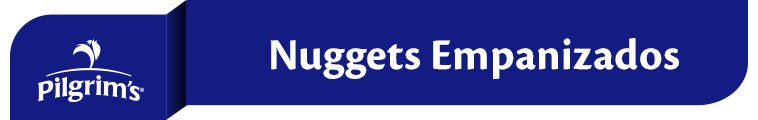
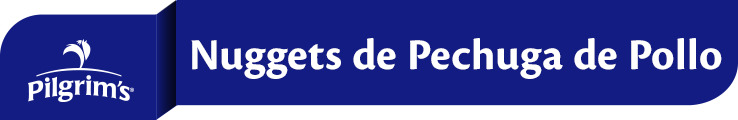
Cambios en titulos de hamburguesas y nuggets, ademas modificacion sobre el h2 del efecto overlay para percibir hrs. Modificacion en la opcion del submenu de valor agregado para que sea responsivo.

Changed region(s): [[0.0, 0.0, 1.0, 1.0], [0.9038, 0.875, 0.935, 0.9]]

diff --git a/v1/css/pilgrimsML.css b/v1/css/pilgrimsML.css
@@ -78,6 +78,12 @@ header.carousel-negocio {
 	opacity: 0;
 	-webkit-transition: opacity 0.35s;
 }
+h2.h2-catalogo {
+	font-size:1.5em; 
+	margin-top:0px; 
+	margin-bottom:0px;
+	padding-bottom: 0px;
+}
 /*Efecto para los productos de Pilgrims Valor agregado*/
 .hovereffect .overlay {
 	background-color: rgba(23,65,133,1) !important;
@@ -297,6 +303,22 @@ ul.plantas-tabs>li.active a {
 }
 
 /*Media query*/
+@media (min-width: 1701px) {
+	.linea1{
+		display:inline;
+	}
+	.linea2{
+		display: none;
+	}
+}
+@media (min-width:768px) and (max-width: 1700px)  {
+	.linea1{
+		display: none;
+	}
+	.linea2{
+		display: inline;
+	}
+}
 @media (max-width: 767px) {
 	/*Recolocación de miniaturas de vista y aumento de tamaño*/
 	.miniatura-vista {
@@ -346,6 +368,13 @@ ul.plantas-tabs>li.active a {
 	}
 	.nav-tabs li {
 	    font-size: 1em;
+	}
+	/*Opcion de menú valor */
+	.linea1{
+		display: inline;
+	}
+	.linea2{
+		display: none;
 	}
 }
 @media (max-width: 1024px) {

diff --git a/v1/valor_agregado.php b/v1/valor_agregado.php
@@ -122,7 +122,7 @@
 					            	<table class="align-middle" style="height:100%">
 										<tr><td>
 								        	<hr class="hr-hover" style="margin:0px auto !important; padding:0px !important;">
-								        	<h2 style="font-size:1.5em; margin-top:0px; margin-bottom:0px;">Alitas buffalo</h2>
+								        	<h2 class="h2-catalogo">Alitas buffalo</h2>
 											<p class="descripcion"> 
 												<a href="alitas_buffalo.php" >
 													<i class="fa fa-chevron-down" aria-hidden="true"></i><br>
@@ -150,7 +150,7 @@
 					            	<table class="align-middle" style="height:100%">
 										<tr><td>
 								        	<hr class="hr-hover" style="margin:0px auto !important; padding:0px !important;">
-								        	<h2 style="font-size:1.5em; margin-top:0px; margin-bottom:0px;">Arrachera adobada 700 gr</h2>
+								        	<h2 class="h2-catalogo">Arrachera adobada 700 gr</h2>
 											<p class="descripcion"> 
 												<a href="arrachera_adobada_700.php" >
 													<i class="fa fa-chevron-down" aria-hidden="true"></i><br>
@@ -178,7 +178,7 @@
 					            	<table class="align-middle" style="height:100%">
 										<tr><td>
 								        	<hr class="hr-hover" style="margin:0px auto !important; padding:0px !important;">
-								        	<h2 style="font-size:1.5em; margin-top:0px; margin-bottom:0px;">Arrachera adobada 1.2 kg</h2>
+								        	<h2 class="h2-catalogo">Arrachera adobada 1.2 kg</h2>
 											<p class="descripcion"> 
 												<a href="arrachera_adobada_1-2kg.php" >
 													<i class="fa fa-chevron-down" aria-hidden="true"></i><br>
@@ -206,7 +206,7 @@
 					            	<table class="align-middle" style="height:100%">
 										<tr><td>
 								        	<hr class="hr-hover" style="margin:0px auto !important; padding:0px !important;">
-								        	<h2 style="font-size:1.5em; margin-top:0px; margin-bottom:0px;">Boneless buffalo</h2>
+								        	<h2 class="h2-catalogo">Boneless buffalo</h2>
 											<p class="descripcion"> 
 												<a href="boneless_buffalo.php" >
 													<i class="fa fa-chevron-down" aria-hidden="true"></i><br>
@@ -234,7 +234,7 @@
 					            	<table class="align-middle" style="height:100%">
 										<tr><td>
 								        	<hr class="hr-hover" style="margin:0px auto !important; padding:0px !important;">
-								        	<h2 style="font-size:1.5em; margin-top:0px; margin-bottom:0px;">Boneless original hot</h2>
+								        	<h2 class="h2-catalogo">Boneless original hot</h2>
 											<p class="descripcion"> 
 												<a href="boneless_original_hot.php" >
 													<i class="fa fa-chevron-down" aria-hidden="true"></i><br>
@@ -262,7 +262,7 @@
 					            	<table class="align-middle" style="height:100%">
 										<tr><td>
 								        	<hr class="hr-hover" style="margin:0px auto !important; padding:0px !important;">
-								        	<h2 style="font-size:1.5em; margin-top:0px; margin-bottom:0px;">Filete empanizado</h2>
+								        	<h2 class="h2-catalogo">Filete empanizado</h2>
 											<p class="descripcion"> 
 												<a href="filete_empanizado.php" >
 													<i class="fa fa-chevron-down" aria-hidden="true"></i><br>
@@ -290,7 +290,7 @@
 					            	<table class="align-middle" style="height:100%">
 										<tr><td>
 								        	<hr class="hr-hover" style="margin:0px auto !important; padding:0px !important;">
-								        	<h2 style="font-size:1.5em; margin-top:0px; margin-bottom:0px;">Filete empanizado picante</h2>
+								        	<h2 class="h2-catalogo">Filete empanizado picante</h2>
 											<p class="descripcion"> 
 												<a href="filete_picante.php" >
 													<i class="fa fa-chevron-down" aria-hidden="true"></i><br>
@@ -307,10 +307,10 @@
 					    	<div class="hovereffect">
 					    		<a href="hamburguesa_empanizada.php" >
 									<div class="div-producto">
-										<img src="rec/img/nuestras_marcas/hamburguesa_empanizada.png" alt="Hamburguesa empanizada" class="img-responsive producto">
+										<img src="rec/img/nuestras_marcas/hamburguesa_empanizada.png" alt="Hamburguesa de pechuga de pollo" class="img-responsive producto">
 										<div class="producto-caption">
-									        <h3>Hamburguesa empanizada</h3>
-									        <p style="font-size:1em; color:#000;">Hamburguesas de Pechuga de pollo formadas, empanizadas y parcialmente cocinada.</p>
+									        <h3>Hamburguesa de<br>pechuga de pollo</h3>
+									        <p style="font-size:1em; color:#000;">Hamburguesas de pechuga de pollo formadas, empanizadas y parcialmente cocinada.</p>
 									    </div>
 									</div>
 								</a>
@@ -318,11 +318,11 @@
 					            	<table class="align-middle" style="height:100%">
 										<tr><td>
 								        	<hr class="hr-hover" style="margin:0px auto !important; padding:0px !important;">
-								        	<h2 style="font-size:1.5em; margin-top:0px; margin-bottom:0px;">Hamburguesa empanizada</h2>
+								        	<h2 class="h2-catalogo">Hamburguesa de<br> pechuga de pollo</h2>
 											<p class="descripcion"> 
 												<a href="hamburguesa_empanizada.php" >
 													<i class="fa fa-chevron-down" aria-hidden="true"></i><br>
-													Hamburguesas de Pechuga de pollo formadas, empanizadas y parcialmente cocinada.
+													Hamburguesas de pechuga de pollo formadas, empanizadas y parcialmente cocinada.
 												</a>
 											</p>
 											<hr class="hr-hover" style="margin:0px auto !important; padding:0px !important;"> 
@@ -337,8 +337,8 @@
 									<div class="div-producto">
 										<img src="rec/img/nuestras_marcas/nuggets.png" alt="Nuggets empanizados" class="img-responsive producto">
 										<div class="producto-caption">
-									        <h3>Nuggets empanizados</h3>
-									        <p style="font-size:1em; color:#000;">Nuggets de Pechuga de pollo formados, empanizados y parcialmente cocinados.</p>
+									        <h3>Nuggets de<br> pechuga de pollo</h3>
+									        <p style="font-size:1em; color:#000;">Nuggets de pechuga de pollo formados, empanizados y parcialmente cocinados.</p>
 									    </div>
 									</div>
 								</a>
@@ -346,11 +346,11 @@
 					            	<table class="align-middle" style="height:100%">
 										<tr><td>
 								        	<hr class="hr-hover" style="margin:0px auto !important; padding:0px !important;">
-								        	<h2 style="font-size:1.5em; margin-top:0px; margin-bottom:0px;">Nuggets empanizados</h2>
+								        	<h2 class="h2-catalogo">Nuggets de<br> pechuga de pollo</h2>
 											<p class="descripcion"> 
 												<a href="nuggets.php" >
 													<i class="fa fa-chevron-down" aria-hidden="true"></i><br>
-													Nuggets de Pechuga de pollo formados, empanizados y parcialmente cocinados.
+													Nuggets de pechuga de pollo formados, empanizados y parcialmente cocinados.
 												</a>
 											</p>
 											<hr class="hr-hover" style="margin:0px auto !important; padding:0px !important;"> 
@@ -374,7 +374,7 @@
 					            	<table class="align-middle" style="height:100%">
 										<tr><td>
 								        	<hr class="hr-hover" style="margin:0px auto !important; padding:0px !important;">
-								        	<h2 style="font-size:1.5em; margin-top:0px; margin-bottom:0px;">Pechuga grill 1.2 kg</h2>
+								        	<h2 class="h2-catalogo">Pechuga grill 1.2 kg</h2>
 											<p class="descripcion"> 
 												<a href="pechuga_grill_1-2k.php" >
 													<i class="fa fa-chevron-down" aria-hidden="true"></i><br>
@@ -402,7 +402,7 @@
 					            	<table class="align-middle" style="height:100%">
 										<tr><td>
 								        	<hr class="hr-hover" style="margin:0px auto !important; padding:0px !important;">
-								        	<h2 style="font-size:1.5em; margin-top:0px; margin-bottom:0px;">Pechuga grill 700 gr</h2>
+								        	<h2 class="h2-catalogo">Pechuga grill 700 gr</h2>
 											<p class="descripcion"> 
 												<a href="pechuga_grill_700.php" >
 													<i class="fa fa-chevron-down" aria-hidden="true"></i><br>
@@ -430,7 +430,7 @@
 					            	<table class="align-middle" style="height:100%">
 										<tr><td>
 								        	<hr class="hr-hover" style="margin:0px auto !important; padding:0px !important;">
-								        	<h2 style="font-size:1.5em; margin-top:0px; margin-bottom:0px;">Pechuga navideña</h2>
+								        	<h2 class="h2-catalogo">Pechuga navideña</h2>
 											<p class="descripcion"> 
 												<a href="pechuga_navidenia.php" >
 													<i class="fa fa-chevron-down" aria-hidden="true"></i><br>
@@ -458,7 +458,7 @@
 					            	<table class="align-middle" style="height:100%">
 										<tr><td>
 								        	<hr class="hr-hover" style="margin:0px auto !important; padding:0px !important;">
-								        	<h2 style="font-size:1.5em; margin-top:0px; margin-bottom:0px;">Pechuga rellena cordon bleu</h2>
+								        	<h2 class="h2-catalogo">Pechuga rellena cordon bleu</h2>
 											<p class="descripcion"> 
 												<a href="cordon_bleu.php" >
 													<i class="fa fa-chevron-down" aria-hidden="true"></i><br>
@@ -486,7 +486,7 @@
 					            	<table class="align-middle" style="height:100%">
 										<tr><td>
 								        	<hr class="hr-hover" style="margin:0px auto !important; padding:0px !important;">
-								        	<h2 style="font-size:1.5em; margin-top:0px; margin-bottom:0px;">Tender empanizado</h2>
+								        	<h2 class="h2-catalogo">Tender empanizado</h2>
 											<p class="descripcion"> 
 												<a href="tender_empanizado.php" >
 													<i class="fa fa-chevron-down" aria-hidden="true"></i><br>

diff --git a/v1/pilgrims_fresco.php b/v1/pilgrims_fresco.php
@@ -126,7 +126,7 @@
 									<table class="align-middle" style="height:100%">
 										<tr><td>
 									        <hr class="hr-hover" style="margin:0px auto !important; padding:0px !important;">
-									        <h2 style="font-size:1.5em; margin-top:0px; margin-bottom:0px;">Pollo entero</h2>
+									        <h2 class="h2-catalogo">Pollo entero</h2>
 											<p class="descripcion"> 
 												<a href="pollo_entero.php" >
 													<i class="fa fa-chevron-down" aria-hidden="true"></i><br>
@@ -154,7 +154,7 @@
 					            	<table class="align-middle" style="height:100%">
 										<tr><td>
 								        	<hr class="hr-hover" style="margin:0px auto !important; padding:0px !important;">
-								        	<h2 style="font-size:1.5em; margin-top:0px; margin-bottom:0px;">Pechuga</h2>
+								        	<h2 class="h2-catalogo">Pechuga</h2>
 											<p class="descripcion"> 
 												<a href="pechuga.php" >
 													<i class="fa fa-chevron-down" aria-hidden="true"></i><br>
@@ -182,7 +182,7 @@
 					            	<table class="align-middle" style="height:100%">
 										<tr><td>
 								        	<hr class="hr-hover" style="margin:0px auto !important; padding:0px !important;">
-								        	<h2 style="font-size:1.5em; margin-top:0px; margin-bottom:0px;">Pierna</h2>
+								        	<h2 class="h2-catalogo">Pierna</h2>
 											<p class="descripcion"> 
 												<a href="pierna.php" >
 													<i class="fa fa-chevron-down" aria-hidden="true"></i><br>
@@ -210,7 +210,7 @@
 					            	<table class="align-middle" style="height:100%">
 										<tr><td>
 								        	<hr class="hr-hover" style="margin:0px auto !important; padding:0px !important;">
-								        	<h2 style="font-size:1.5em; margin-top:0px; margin-bottom:0px;">Alitas naturales</h2>
+								        	<h2 class="h2-catalogo">Alitas naturales</h2>
 											<p class="descripcion"> 
 												<a href="alas_naturales.php" >
 													<i class="fa fa-chevron-down" aria-hidden="true"></i><br>
@@ -238,7 +238,7 @@
 					            	<table class="align-middle" style="height:100%">
 										<tr><td>
 								        	<hr class="hr-hover" style="margin:0px auto !important; padding:0px !important;">
-								        	<h2 style="font-size:1.5em; margin-top:0px; margin-bottom:0px;">Muslo</h2>
+								        	<h2 class="h2-catalogo">Muslo</h2>
 											<p class="descripcion"> 
 												<a href="muslo.php" >
 													<i class="fa fa-chevron-down" aria-hidden="true"></i><br>
@@ -266,7 +266,7 @@
 					            	<table class="align-middle" style="height:100%">
 										<tr><td>
 								        	<hr class="hr-hover" style="margin:0px auto !important; padding:0px !important;">
-								        	<h2 style="font-size:1.5em; margin-top:0px; margin-bottom:0px;">Pierna y muslo</h2>
+								        	<h2 class="h2-catalogo">Pierna y muslo</h2>
 											<p class="descripcion"> 
 												<a href="pierna_muslo.php" >
 													<i class="fa fa-chevron-down" aria-hidden="true"></i><br>
@@ -294,7 +294,7 @@
 					            	<table class="align-middle" style="height:100%">
 										<tr><td>
 								        	<hr class="hr-hover" style="margin:0px auto !important; padding:0px !important;">
-								        	<h2 style="font-size:1.5em; margin-top:0px; margin-bottom:0px;">Milanesas</h2>
+								        	<h2 class="h2-catalogo">Milanesas</h2>
 											<p class="descripcion"> 
 												<a href="milanesas.php" >
 													<i class="fa fa-chevron-down" aria-hidden="true"></i><br>
@@ -322,7 +322,7 @@
 					            	<table class="align-middle" style="height:100%">
 										<tr><td>
 								        	<hr class="hr-hover" style="margin:0px auto !important; padding:0px !important;">
-								        	<h2 style="font-size:1.5em; margin-top:0px; margin-bottom:0px;">Alitas adobadas</h2>
+								        	<h2 class="h2-catalogo">Alitas adobadas</h2>
 											<p class="descripcion"> 
 												<a href="alas_adobadas.php">
 													<i class="fa fa-chevron-down" aria-hidden="true"></i><br>
@@ -350,7 +350,7 @@
 					            	<table class="align-middle" style="height:100%">
 										<tr><td>
 								        	<hr class="hr-hover" style="margin:0px auto !important; padding:0px !important;">
-								        	<h2 style="font-size:1.5em; margin-top:0px; margin-bottom:0px;">Arrachera de pollo</h2>
+								        	<h2 class="h2-catalogo">Arrachera de pollo</h2>
 											<p class="descripcion"> 
 												<a href="arrachera_pollo.php" >
 													<i class="fa fa-chevron-down" aria-hidden="true"></i><br>

diff --git a/v1/hamburguesa_empanizada.php b/v1/hamburguesa_empanizada.php
@@ -23,7 +23,7 @@
 					<li><a href="inicio.php">Inicio</a></li>
 					<li>Nuestras marcas</li>
 					<li><a href="valor_agregado.php">Pilgrim's valor agregado</a></li>
-					<li class="active">Hamburguesa empanizada</li>
+					<li class="active">Hamburguesa empanizadade pechuga de pollo</li>
 				</ol>
 				<section class="container text-center ">
 					<div class="row plecas">
@@ -38,19 +38,24 @@
 					</div>
 					<div class="col-lg-6 col-md-6 col-sm-12" >
 						<h3 class="animated fadeInDown" style="background-color:#e7e7e7; color:#071689; border-top-left-radius:10px; padding:10px 15px; text-align:left; margin-top:0px;">Descripción:</h3>
-						<p class="animated fadeInDown" style="font-size:1.3em;">Hamburguesas de Pechuga de pollo formadas, empanizadas y parcialmente cocinadas.</p>
+						<p class="animated fadeInDown" style="font-size:1.3em;">Hamburguesas de pechuga de pollo formadas, empanizadas y parcialmente cocinadas.</p>
 						<p class="animated fadeInDown" style="font-size:1.3em;">Contenido neto 700gr.</p>
 						<br>
 						<hr class="hr-productos">
 						<div class="col-lg-12 col-md-12 col-sm-12 producto movil-historia">
 							<div class=" animated zoomIn">
-								<img src="rec/img/nuestras_marcas/hamburguesa_empanizada.png" alt="Hamburguesa empanizada" class="img-responsive thumbnail-producto" style="max-width:100%">
+								<img src="rec/img/nuestras_marcas/hamburguesa_empanizada.png" alt="Hamburguesa de pechuga de pollo" class="img-responsive thumbnail-producto" style="max-width:100%">
+							</div>
+						</div>
+						<div class="row">
+							<div class="col-lg-offset-9 col-lg-3 col-md-offset-9 col-md-3 col-sm-offset-9 col-sm-3 col-xs-12">
+								<img src="rec/img/incomparable.png" alt="Sabor incomparable" style="margin: auto;" class="img-responsive">
 							</div>
 						</div>
 					</div>
 					<div class="col-lg-6 col-md-6 col-sm-12 producto desktop-historia" >
 						<div class=" animated zoomIn">
-							<img src="rec/img/nuestras_marcas/hamburguesa_empanizada.png" alt="Hamburguesa empanizada" class="img-responsive thumbnail-producto">
+							<img src="rec/img/nuestras_marcas/hamburguesa_empanizada.png" alt="Hamburguesa de pechuga de pollo" class="img-responsive thumbnail-producto">
 						</div>
 					</div>
 				</div>

diff --git a/v1/nuggets.php b/v1/nuggets.php
@@ -23,7 +23,7 @@
 					<li><a href="inicio.php">Inicio</a></li>
 					<li>Nuestras marcas</li>
 					<li><a href="valor_agregado.php">Pilgrim's valor agregado</a></li>
-					<li class="active">Nuggets empanizados</li>
+					<li class="active">Nuggets de pechuga de pollo</li>
 				</ol>
 				<section class="container text-center ">
 					<div class="row plecas">
@@ -45,6 +45,11 @@
 						<div class="col-lg-12 col-md-12 col-sm-12 producto movil-historia">
 							<div class=" animated zoomIn">
 								<img src="rec/img/nuestras_marcas/nuggets.png" alt="Nuggets empanizados" class="img-responsive thumbnail-producto" style="max-width:100%">
+							</div>
+						</div>
+						<div class="row">
+							<div class="col-lg-offset-9 col-lg-3 col-md-offset-9 col-md-3 col-sm-offset-9 col-sm-3 col-xs-12">
+								<img src="rec/img/incomparable.png" alt="Sabor incomparable" style="margin: auto;" class="img-responsive">
 							</div>
 						</div>
 					</div>

diff --git a/v1/template.php b/v1/template.php
@@ -101,7 +101,7 @@ function menu($elemento = ""){
           </a>
           <ul class="dropdown-menu">
             <li><a href="pilgrims_fresco.php"><div>PILGRIM'S FRESCO</div></a></li>
-            <li><a href="valor_agregado.php"><div>PILGRIM'S VALOR AGREGADO</div></a></li>
+            <li><a href="valor_agregado.php"><div class="linea1">PILGRIM'S VALOR AGREGADO</div><div class="linea2">PILGRIM'S<br> VALOR AGREGADO</div></a></li>
             <li><a href="http://www.deldia.com.mx/index.jsp" target="_blank"><div>DEL DÍA</div></a></li>                        
           </ul>
         </li>
